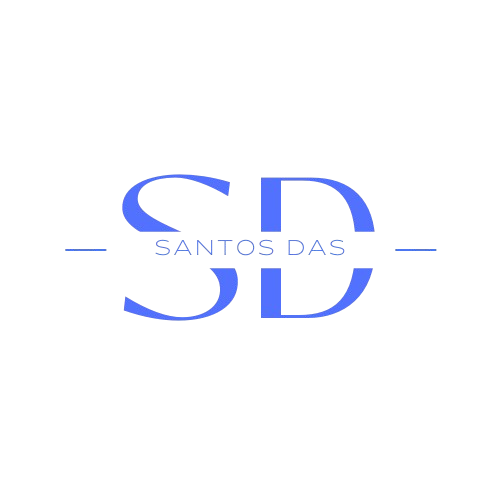
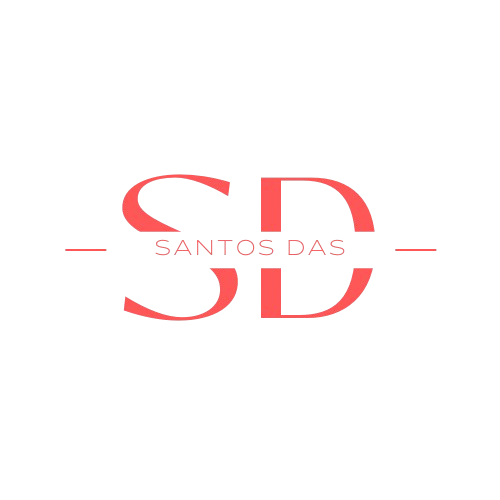
links color and avatr changes

diff --git a/src/components/home/Home.js b/src/components/home/Home.js
@@ -4,29 +4,37 @@ import me from '../../img/self.png';
 import classNames from 'classnames';
 import EmojiBullet from "./EmojiBullet";
 import SocialIcon from "./SocialIcon";
-import {Box} from "@mui/material";
-import {info} from "../../info/Info";
+import { Box } from "@mui/material";
+import { info } from "../../info/Info";
 
-export default function Home({innerRef}) {
+export default function Home({ innerRef }) {
 
    return (
-      <Box ref={innerRef} component={'main'} display={'flex'} flexDirection={{xs: 'column', md: 'row'}} alignItems={'center'}
-           justifyContent={'center'} minHeight={'calc(100vh - 175px)'} id={'home'}>
-         <Box className={classNames(Style.avatar, Style.shadowed)} alt={'image of developer'} style={{background: info.gradient}} component={'img'} src={me} width={{xs: '35vh', md: '40vh'}}
-              height={{xs: '35vh', md: '40vh'}}
-              borderRadius={'50%'} p={'0.75rem'} mb={{xs: '1rem', sm: 0}} mr={{xs: 0, md: '2rem'}}/>
-         <Box>
-            <h1>Hi, I'm <span style={{background: info.gradient, WebkitBackgroundClip: 'text', WebkitTextFillColor: 'transparent'}}>{info.firstName}</span><span className={Style.hand}>🤚</span>
+      <Box ref={innerRef} component={'main'} display={'flex'} flexDirection={{ xs: 'column', md: 'row' }} alignItems={'center'}
+         justifyContent={'center'} minHeight={'calc(100vh - 175px)'} id={'home'}>
+         <Box flexBasis={'50%'} display={'flex'} justifyContent={'center'} alignItems={'center'} flexDirection={{ xs: 'column', md: 'row' }}>
+            <Box className={classNames(Style.avatar, Style.shadowed)} alt={'image of developer'} style={{ background: info.gradient }} component={'img'} src={me}
+               width={{ xs: '30vw', md: '50%' }}
+               height={{ xs: '45vw', md: '60%' }}
+               borderRadius={'20px'} p={'0.75rem'} />
+            <Box marginTop={{ xs: '1rem', md: '2rem' }}
+               marginLeft={{ xs: '0.5rem', md: '1rem' }} display={'flex'} gap={'.75rem'}
+               flexDirection={{ xs: 'row', md: 'column' }}  // Horizontal on small screens, vertical on large screens
+               justifyContent={'center'} fontSize={{ xs: '2rem', md: '2.5rem' }}>
+               {info.socials.map((social, index) => (
+                  <SocialIcon key={index} link={social.link} icon={social.icon} label={social.label} />
+               ))}
+            </Box>
+
+         </Box>
+
+         <Box flexBasis={'50%'} display={'flex'} flexDirection={'column'} alignItems={{ xs: 'center', md: 'flex-start' }} textAlign={{ xs: 'center', md: 'left' }}>
+            <h1>Hi, I'm <span style={{ background: info.gradient, WebkitBackgroundClip: 'text', WebkitTextFillColor: 'transparent' }}>{info.firstName}</span><span className={Style.hand}>🤚</span>
             </h1>
             <h2>I'm {info.position}.</h2>
             <Box component={'ul'} p={'0.8rem'}>
                {info.miniBio.map((bio, index) => (
-                  <EmojiBullet key={index} emoji={bio.emoji} text={bio.text}/>
-               ))}
-            </Box>
-            <Box display={'flex'} gap={'1.5rem'} justifyContent={'center'} fontSize={{xs: '2rem', md: '2.5rem'}}>
-               {info.socials.map((social, index) => (
-                  <SocialIcon key={index} link={social.link} icon={social.icon} label={social.label} />
+                  <EmojiBullet key={index} emoji={bio.emoji} text={bio.text} />
                ))}
             </Box>
          </Box>

diff --git a/src/info/Info.js b/src/info/Info.js
@@ -7,7 +7,7 @@ import mock3 from "../img/Wekare.png"
 /* Hi there! Thanks for checking out my portfolio template. Be sure to read the comments to get a better understanding of
 how to make this template work best for you! */
 
-export let colors = ["rgb(0,255,164)", "rgb(166,104,255)"];
+export let colors = ["rgba(255,99,98,255)", "rgba(255,99,98,255)"];
 /*
 I highly recommend using a gradient generator like https://gradientgenerator.paytonpierce.dev/ to generate a pair of colors that you like.
 These colors will be used to style your name on the homepage, the background of your picture, and some other accents throughout
@@ -29,26 +29,26 @@ export const info = {
     firstName: "Santos",
     lastName: "Das",
     initials: "SD", // the example uses first and last, but feel free to use three or more if you like.
-    position: "a Full Stack Developer",
+    position: "a Frontend Team Lead",
     selfPortrait: self, // don't change this unless you want to name your self-portrait in the "img" folder something else!
     gradient: `-webkit-linear-gradient(135deg, ${colors})`, // don't change this either
     baseColor: colors[0],
     miniBio: [ // these are just some "tidbits" about yourself. You can look at mine https://paytonjewell.github.io/#/ for an example if you'd like
         {
             emoji: '☕',
-            text: 'fueled by coffee'
+            text: 'Powered by caffeine, driven by code'
         },
         {
-            emoji: '🌎',
-            text: 'based in Bhubaneswar'
+            emoji: '📍',
+            text: 'Coding my way from Bhubaneswar to the world'
         },
         {
-            emoji: "💼",
-            text: "Team Lead at Metafic"
+            emoji: "👨💻",
+            text: "Leading frontend teams to success @ Metafic"
         },
         {
-            emoji: "📧",
-            text: "santoshd561@gmail.com"
+            emoji: "📬",
+            text: "Let’s connect: santoshd561@gmail.com"
         }
     ],
     socials: [

diff --git a/src/components/BaseLayout.js b/src/components/BaseLayout.js
@@ -2,7 +2,8 @@ import React, { useEffect, useState } from 'react';
 import Style from './BaseLayout.module.scss'
 import Navbar from "./Navbar";
 import { useLocation } from "react-router-dom";
-import { Box, Grid } from "@mui/material";
+import { Box } from "@mui/material";
+import Grid from '@mui/material/Grid2';
 import MultiPageRoutes from './MultiPageRoutes';
 import { singlePage } from '../info/Info';
 import SinglePageRoutes from './SinglePageRoutes';
@@ -50,7 +51,7 @@ export default function BaseLayout() {
             <Grid item>
                <Box component={'footer'} display={'flex'} flexDirection={'column'} alignItems={'center'}
                   py={'1.5rem'} sx={{ opacity: 0.7 }} width={'100%'}>
-                  <p>template created with &hearts; by <a href={'https://github.com/Santoshd561/my_profile'}>Santos Das</a></p>
+                  <p>template created with &hearts; by <a href={'https://github.com/Santoshd561/my_profile'} style={{color: "#fb6464",fontWeight:"700"}}>Santos Das</a></p>
                   <p>&copy; 2024</p>
                </Box>
             </Grid>

diff --git a/src/components/home/SocialIcon.js b/src/components/home/SocialIcon.js
@@ -5,7 +5,7 @@ function SocialIcon(props) {
     return (
         <a target="_blank" aria-label={label}
            rel="noopener noreferrer" href={link}>
-            <i className={icon} aria-hidden="true"/>
+            <i className={icon} aria-hidden="true" style={{color:"#fb6464" }}/>
         </a>
     );
 }

diff --git a/src/components/portfolio/Portfolio.js b/src/components/portfolio/Portfolio.js
@@ -1,6 +1,7 @@
 import React from 'react';
 import PortfolioBlock from "./PortfolioBlock";
-import {Box, Grid} from "@mui/material";
+import {Box} from "@mui/material";
+import Grid from '@mui/material/Grid2';
 import {info} from "../../info/Info";
 
 export default function Portfolio({innerRef}) {

diff --git a/src/components/Navbar.module.scss b/src/components/Navbar.module.scss
@@ -28,6 +28,13 @@ li {
   }
 }
 
-.link:hover {
-  color: unset;
+.link {
+  color: black; // Set initial link color to black
+
+  &:hover {
+    color: #fb6464; // Change color on hover
+  }
+  &:active, &:focus {
+    color: #fb6464; // Change color when the link is activated or focused
+  }
 }
